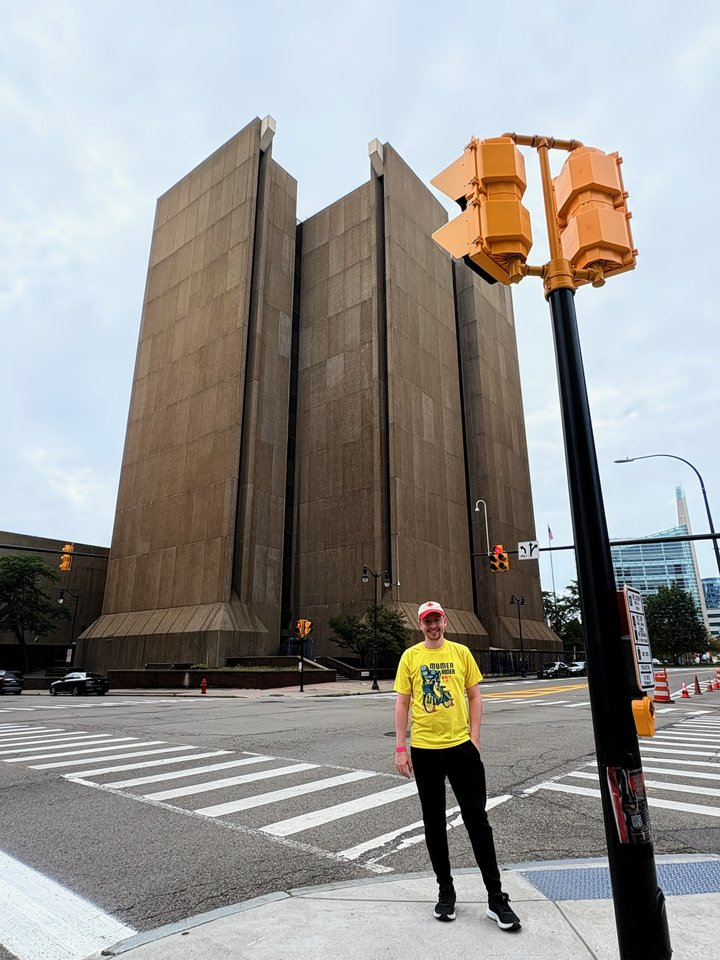
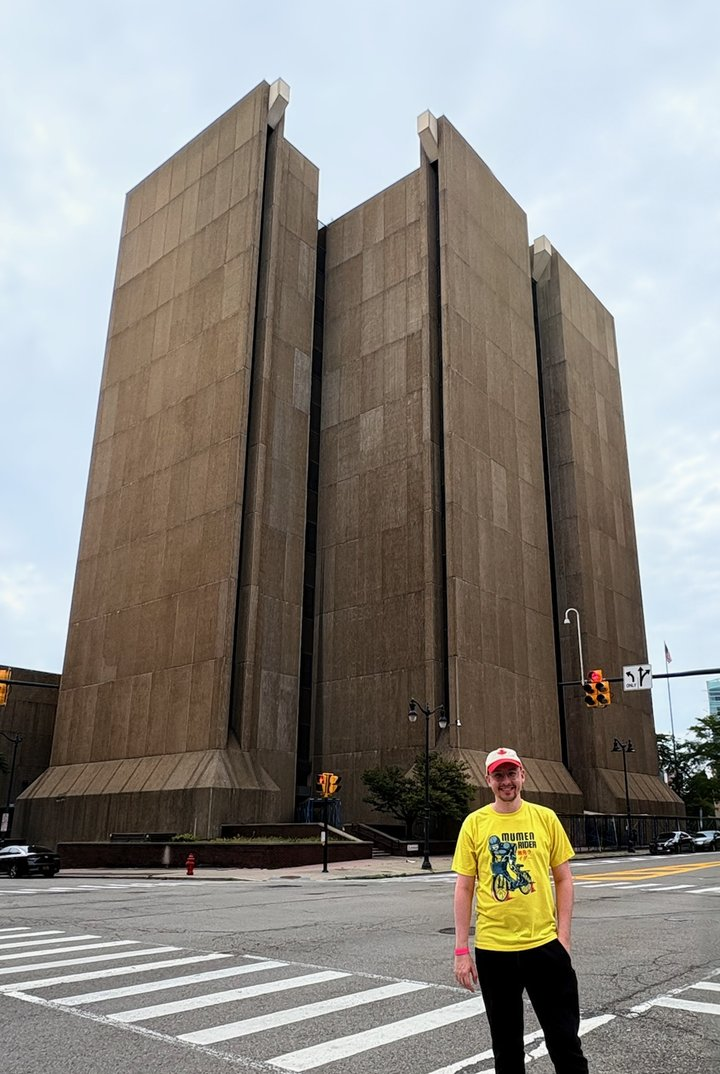
Use edited courthouse photo for portrait

diff --git a/index.html b/index.html
@@ -123,7 +123,6 @@
       display: block;
       width: 240px;
       height: auto;
-      aspect-ratio: 3 / 4;
       object-fit: cover;
       border-radius: 12px;
       background: var(--wash);
@@ -324,7 +323,7 @@
     <section id="about">
       <div class="container hero">
         <figure class="portrait-figure">
-          <img class="portrait" src="images/portrait.jpg" alt="Adam Murdock Gale standing in front of the Buffalo City Court Building" width="240" height="320">
+          <img class="portrait" src="images/portrait.jpg" alt="Adam Murdock Gale standing in front of the Buffalo City Court Building" width="240" height="358">
           <figcaption>Me and my favourite brutalist building (Buffalo City Court Building)</figcaption>
         </figure>
         <div>
